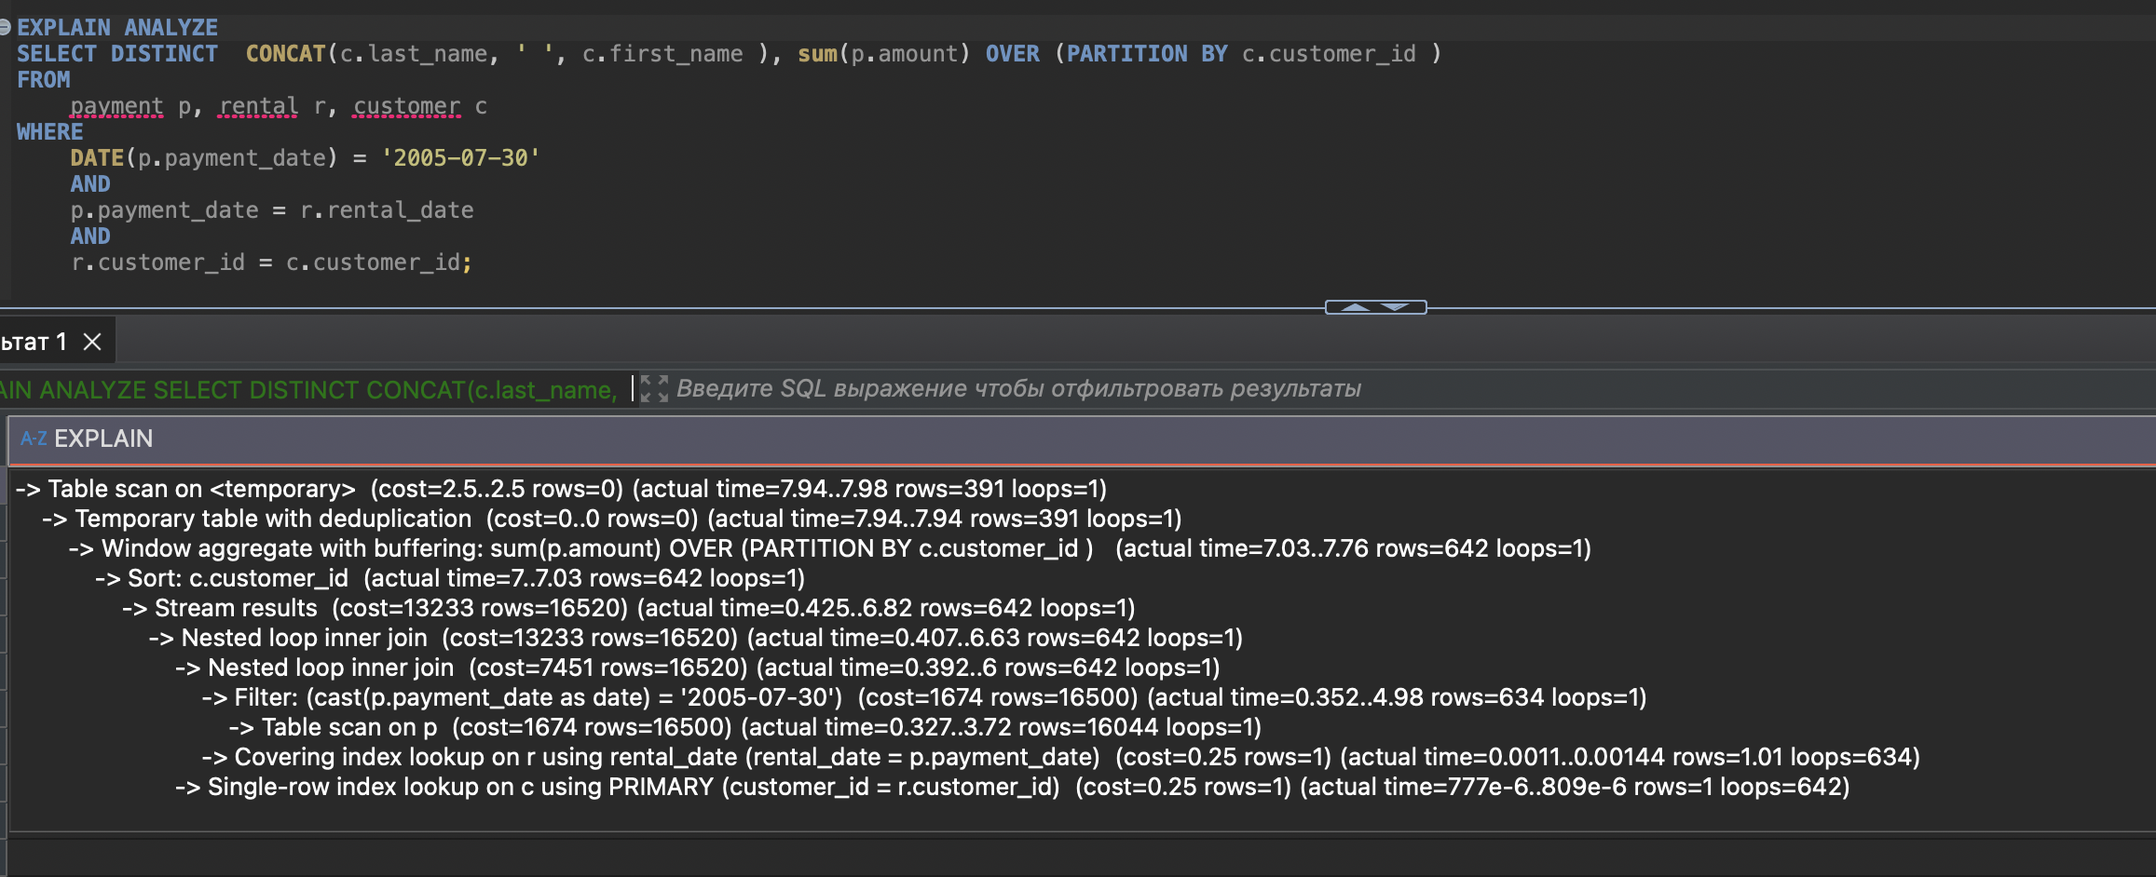
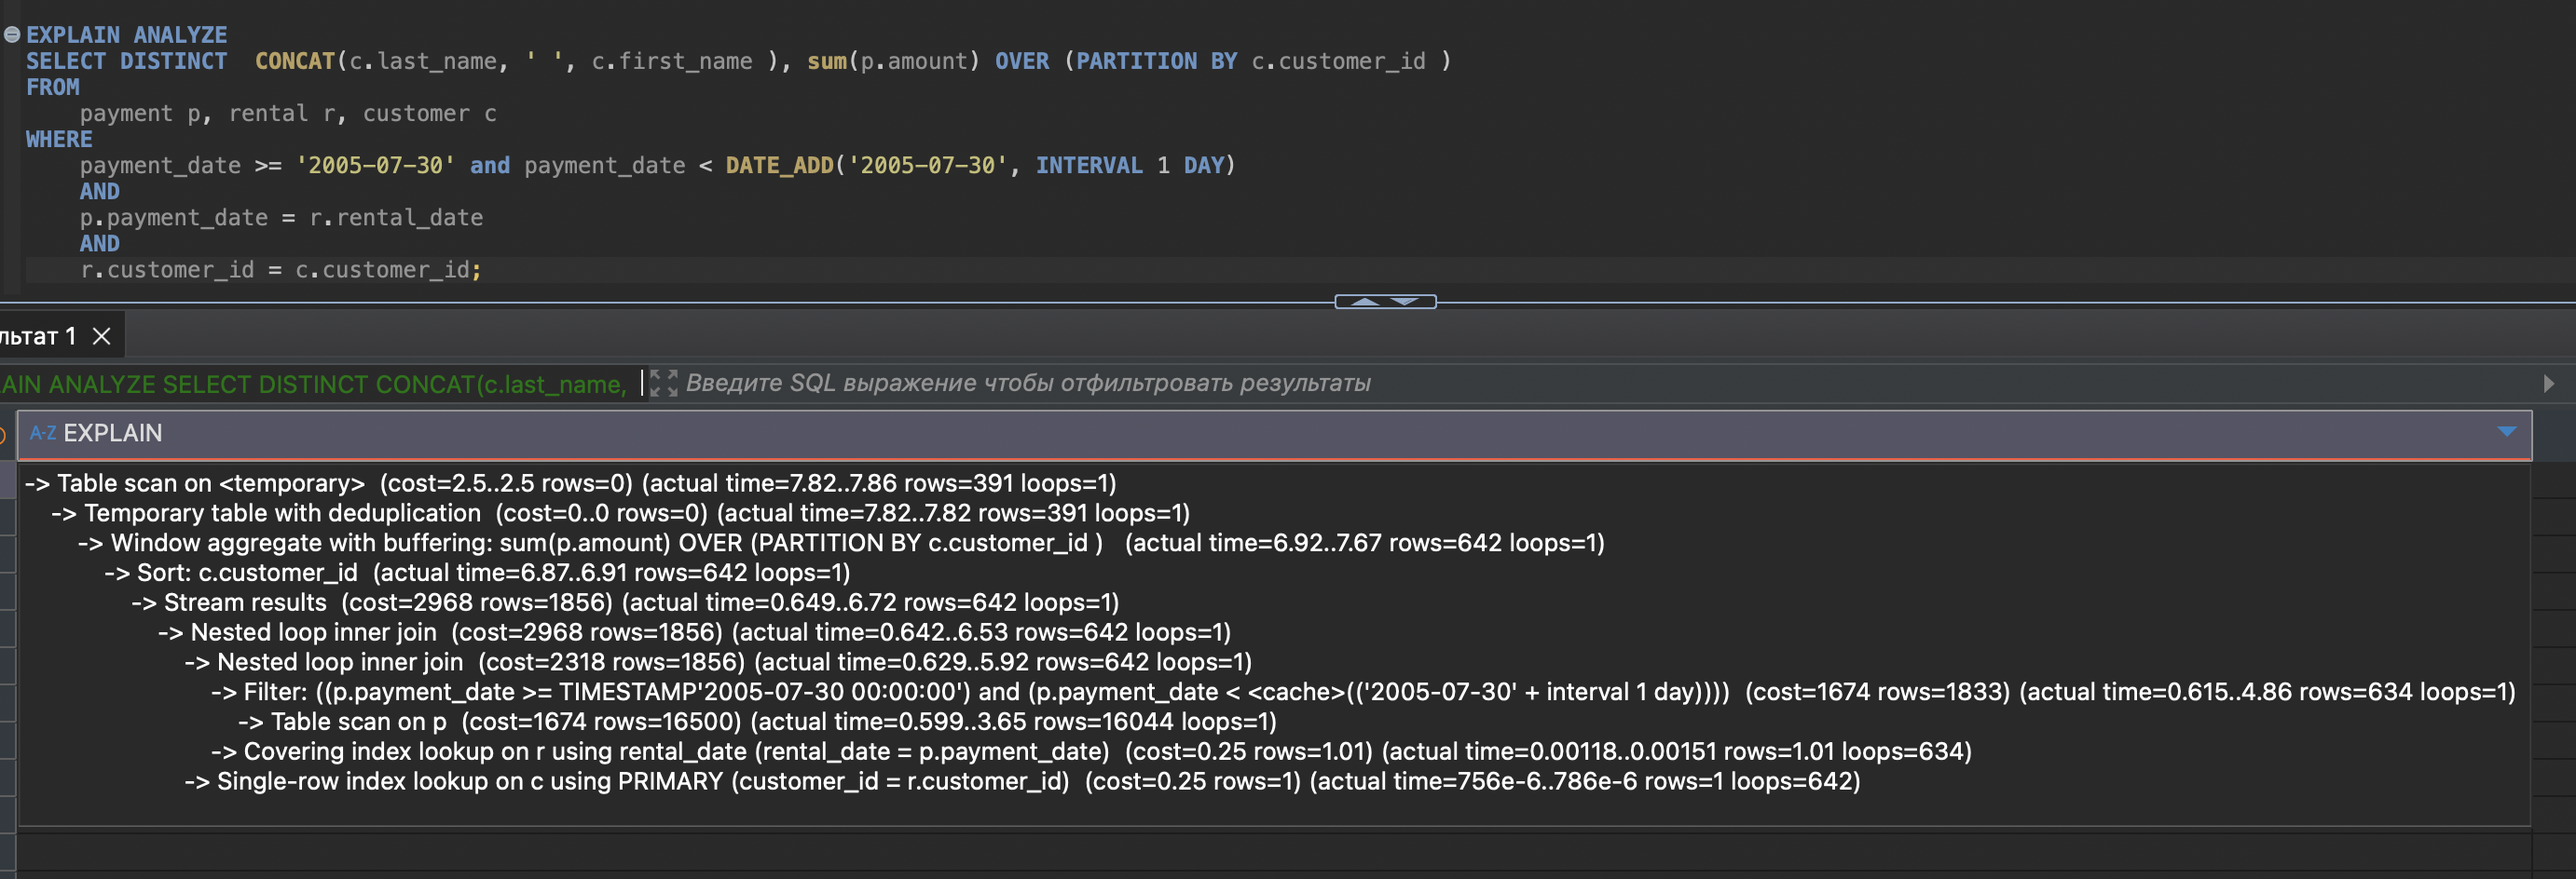
HW-12.05.v4

Changed region(s): [[0.0, 0.0, 1.0, 0.9544]]

diff --git a/README.md b/README.md
@@ -77,11 +77,12 @@ SHOW INDEX FROM `payment` AND `rental`;
 - Убрал из запроса f.title
 
 ```SQL
+EXPLAIN ANALYZE
 SELECT DISTINCT  CONCAT(c.last_name, ' ', c.first_name ), sum(p.amount) OVER (PARTITION BY c.customer_id )
 FROM
     payment p, rental r, customer c
 WHERE
-    DATE(p.payment_date) = '2005-07-30'
+    payment_date >= '2005-07-30' and payment_date < DATE_ADD('2005-07-30', INTERVAL 1 DAY)
     AND
     p.payment_date = r.rental_date
     AND
